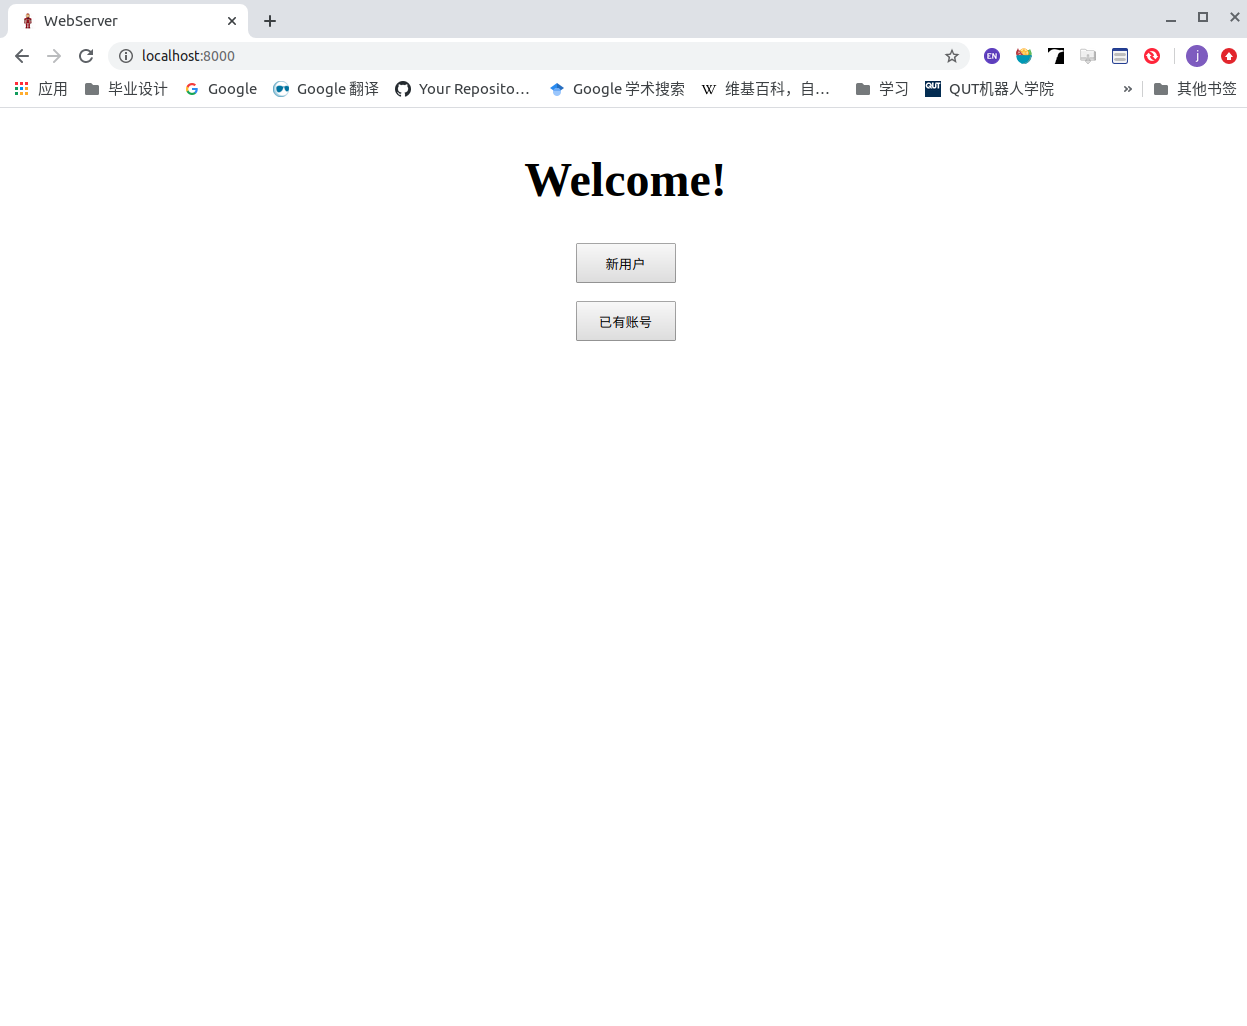
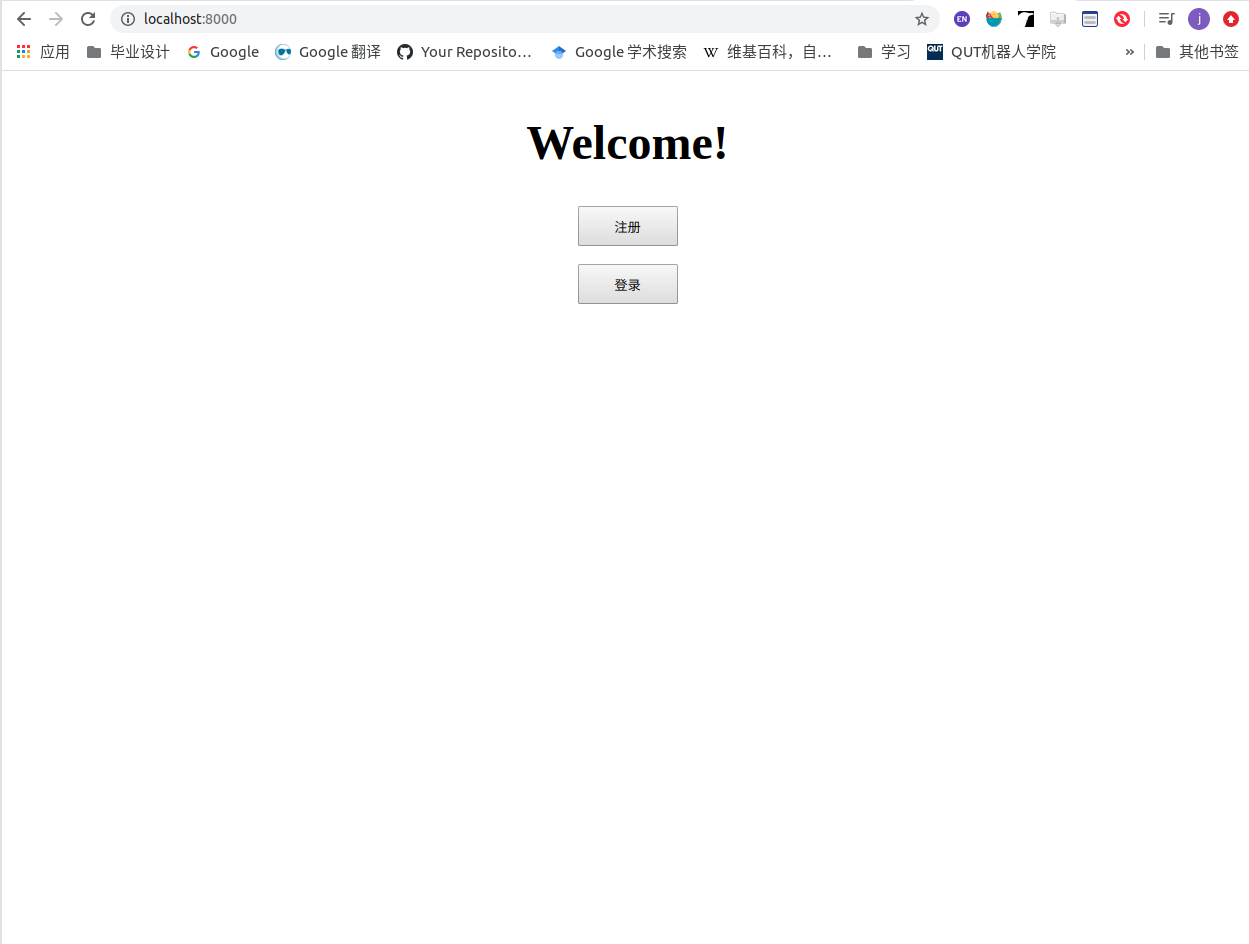
update

Changed region(s): [[0.0, 0.0, 1.0, 0.0922], [0.4266, 0.1229, 0.579, 0.3379]]

diff --git a/root/judge.html b/root/judge.html
@@ -17,11 +17,11 @@
 	<br/>
 		<br/>
 		<form action="0" method="post">
- 			<div align="center"><button type="submit">新用户</button></div>
+ 			<div align="center"><button type="submit">注册</button></div>
                 </form>
 		<br/>
                 <form action="1" method="post">
-                        <div align="center"><button type="submit" >已有账号</button></div>
+                        <div align="center"><button type="submit" >登录</button></div>
                 </form>
 		
 		

diff --git a/README.md b/README.md
@@ -75,9 +75,11 @@ cpu：i5-7300HQ
 
 ## 访问服务器资源示例
 
+加载图片
 
+![image-20220213145027176](root/tupian.png)
 
-<video id="video" controls="" preload="none" >
-      <source id="mp4" src="./root/wangye.mp4" type="video/mp4">
-</videos>
+加载视频
+
+![image-20220213145027176](root/shipin.gif)
 
